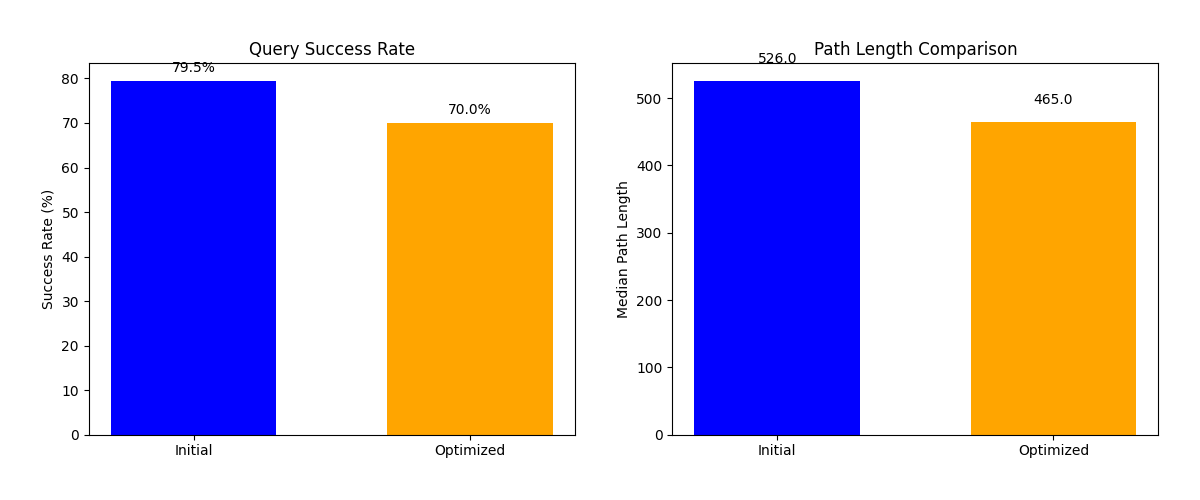
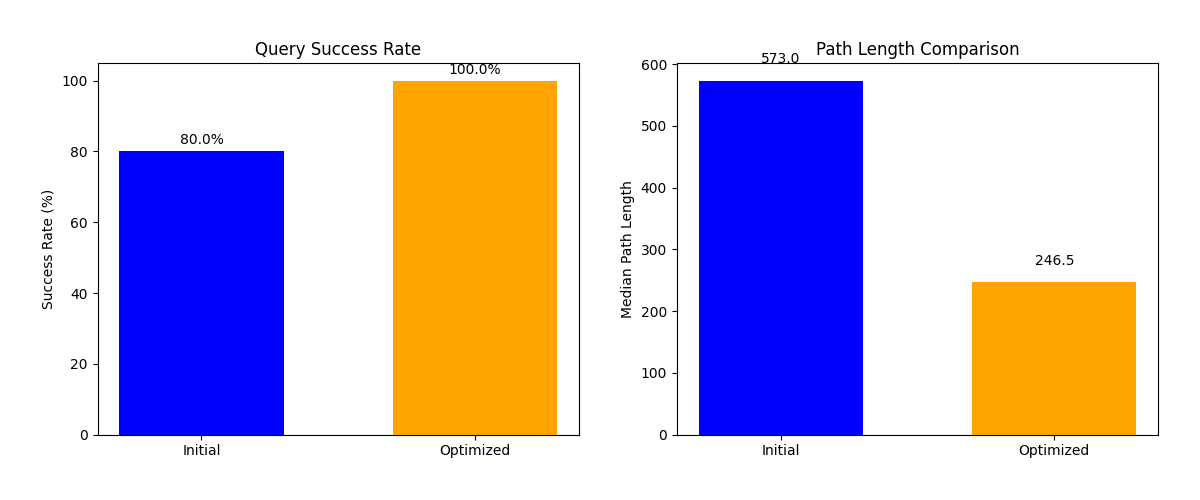
length-500 cycle

diff --git a/bogoDB/candidate_submission/optimize_graph.py b/bogoDB/candidate_submission/optimize_graph.py
@@ -95,11 +95,14 @@ def optimize_graph(
 
     # Create a copy of the initial graph to modify
     optimized_graph = {}
-    for node, edges in initial_graph.items():
-        optimized_graph[node] = dict(edges)
 
     # =============================================================
     # TODO: Implement your optimization strategy here
+
+    for node, edges in initial_graph.items():
+        next_node = (int(node) + 1) % 500
+        new_edge = {next_node: 1}
+        optimized_graph[node] = new_edge
     # =============================================================
     #
     # Your goal is to optimize the graph structure to:

diff --git a/solution.md b/solution.md
@@ -5,6 +5,8 @@
 
 [Describe how you analyzed the query patterns and what insights you found]
 
+latex test $\int_0^1$
+
 ### Optimization Strategy
 
 [Explain your optimization strategy in detail]
